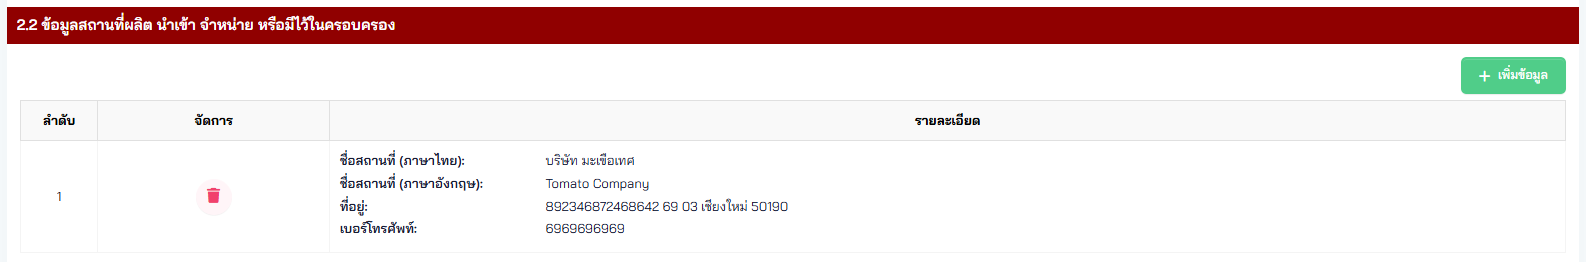
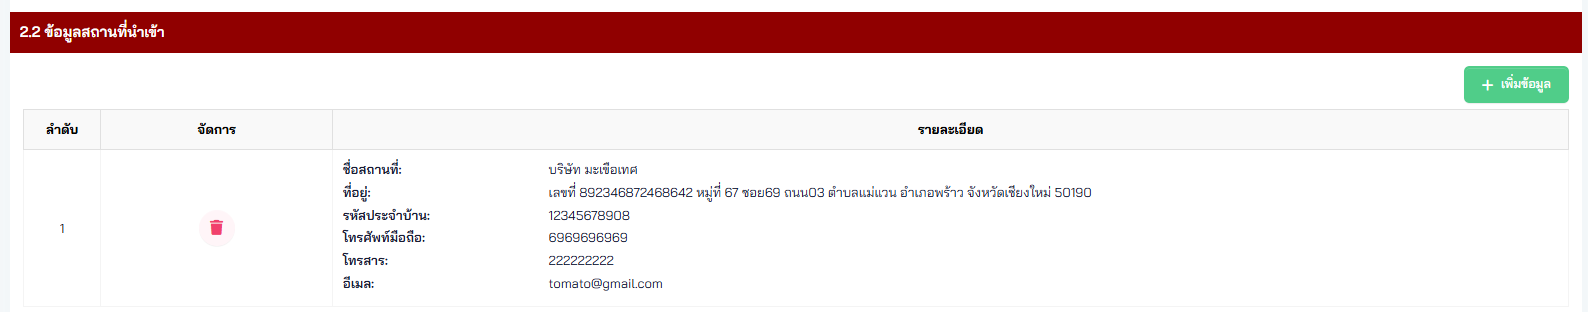
nc1

diff --git a/Narcotic1_Condition.md b/Narcotic1_Condition.md
@@ -100,7 +100,7 @@ li {
 |:---:|---|---|---|---|
 | x | - | `RequisitionObjectiveApplicantDetail`.`RequisitionId` |  |  |
 | 1 | เลขที่ใบอนุญาตจัดตั้งสถาบันอุดมศึกษาเอกชน | `RequisitionObjectiveApplicantDetail`.`ApplicantPrivateUniversityLicenseNumber` | กรณีเลือกวัตถุประสงค์ เป็น `สถาบันอุดมศึกษาเอกชน ตามกฎหมายว่าด้วยสถาบันอุดมศึกษาเอกชน` |  |
-| 2.1 | ระบุประเภทใบอนุญาต | `RequisitionObjectiveApplicantDetail`.`ApplicantLicenseTypeId` | กรณีเลือกวัตถุประสงค์ เป็น `ผู้รับอนุญาตตามประมวลกฎหมายยาเสพติด/ตามกฎหมายว่าด้วยยา` |  |
+| 2.1 | ระบุประเภทใบอนุญาต | `RequisitionObjectiveApplicantDetail`.`ApplicantLicenseTypeId` | กรณีเลือกวัตถุประสงค์ เป็น `ผู้รับอนุญาตตามประมวลกฎหมายยาเสพติด/ตามกฎหมายว่าด้วยยา` | Dropdown ประเภทใบอนุญาตที่อ้างอิง อ้างอิง `MasterLicenseType`.`Id` |
 | 2.2 | เลขที่ใบอนุญาต | `RequisitionObjectiveApplicantDetail`.`ApplicantLicenseNumber` | กรณีเลือกวัตถุประสงค์ เป็น `ผู้รับอนุญาตตามประมวลกฎหมายยาเสพติด/ตามกฎหมายว่าด้วยยา` |  |
 
 ### 1.1 ข้อมูลผู้ขออนุญาต (ยส.1-1)
@@ -151,7 +151,7 @@ li {
 |:---:|---|---|---|---|
 | 1 | ไอดี ของ ใบอนุญาต | `Requisition`.`LicenseRefId` | ใบอนุญาตที่อ้างอิง อ้างอิง `License`.`Id` | |
 | 2 | ใบอนุญาตเลขที่ | `Requisition`.`LicenseRefNo` | เลขที่ใบอนุญาตที่อ้างอิง | |
-| 3 | ประเภทใบอนุญาต | `Requisition`.`LicenseRefType` | ประเภทใบอนุญาตที่อ้างอิง อ้างอิง `MasterLicenseType`.`Id`  | |
+| 3 | ประเภทใบอนุญาต | `Requisition`.`LicenseRefType` | ประเภทใบอนุญาตที่อ้างอิง อ้างอิง `MasterLicenseType`.`Id` | |
 
 ### 1.3 ข้อมูลผู้ดำเนินการใบอนุญาต (ยส.1-1)
 
@@ -197,13 +197,12 @@ li {
 
 <img src="Narcotic1_Field Condition_4.png" style="border: 1px solid black;" width="100%">
 <img src="Narcotic1_Field Condition_4_1.png" style="border: 1px solid black;" width="100%">
-<img src="Narcotic1_Field Condition_12.png" style="border: 1px solid black;" width="75%">
 
 | ลำดับ | Label | Table.Field | Condition | Remark |
 |:---:|---|---|---|---|
 | x | - | `RequisitionParticipant`.`RequisitionId` |  |  |
 | 0 | - | `RequisitionParticipant`.`ParticipantTypeId` | ส่ง 3 - สถานที่ขออนุญาต ตาม `MasterParticipantType`.`Id` | |
-| 1 | ชื่อสถานที่ | `RequisitionParticipant`.`LocationName` | | |
+| 1 | ชื่อสถานที่ | `RequisitionParticipant`.`LocationName` | ดึงข้อมูลจาก `MasterPlace`.`PlaceNameTh` | |
 | 2 | เลขที่ | `RequisitionParticipantAddress`.`HouseNo` | - Can type text เพื่อให้รองรับ อาคาร ชั้น ห้อง | |
 | 3 | เลขรหัสประจำบ้านตามทะเบียนบ้าน (ตามทะเบียนราษฎร์ กระทรวงมหาดไทย) | `RequisitionParticipantAddress`.`HouseCode` | - Cannot over 11 digits | - Need separator `(0000-000000-0)` |
 | 4 | หมู่ที่ | `RequisitionParticipantAddress`.`VillageNo` | | |
@@ -216,6 +215,10 @@ li {
 | 11 | โทรศัพท์มือถือ | `RequisitionParticipantAddress`.`Phone` | | |
 | 12 | โทรสาร | `RequisitionParticipantAddress`.`Fax` | | |
 | 13 | อีเมล | `RequisitionParticipantAddress`.`Email` | | |
+
+<img src="Narcotic1_Field Condition_12.png" style="border: 1px solid black;" width="75%">
+
+*** ทำแบบ ยส.4 ***
 
 ### 2.3 ข้อมูลของ<u>ผู้รับมอบ</u>ผลิตยาเสพติดให้โทษในประเภท 1 (เฉพาะกรณีขออนุญาตจำหน่าย) (ยส.1-1)
 
